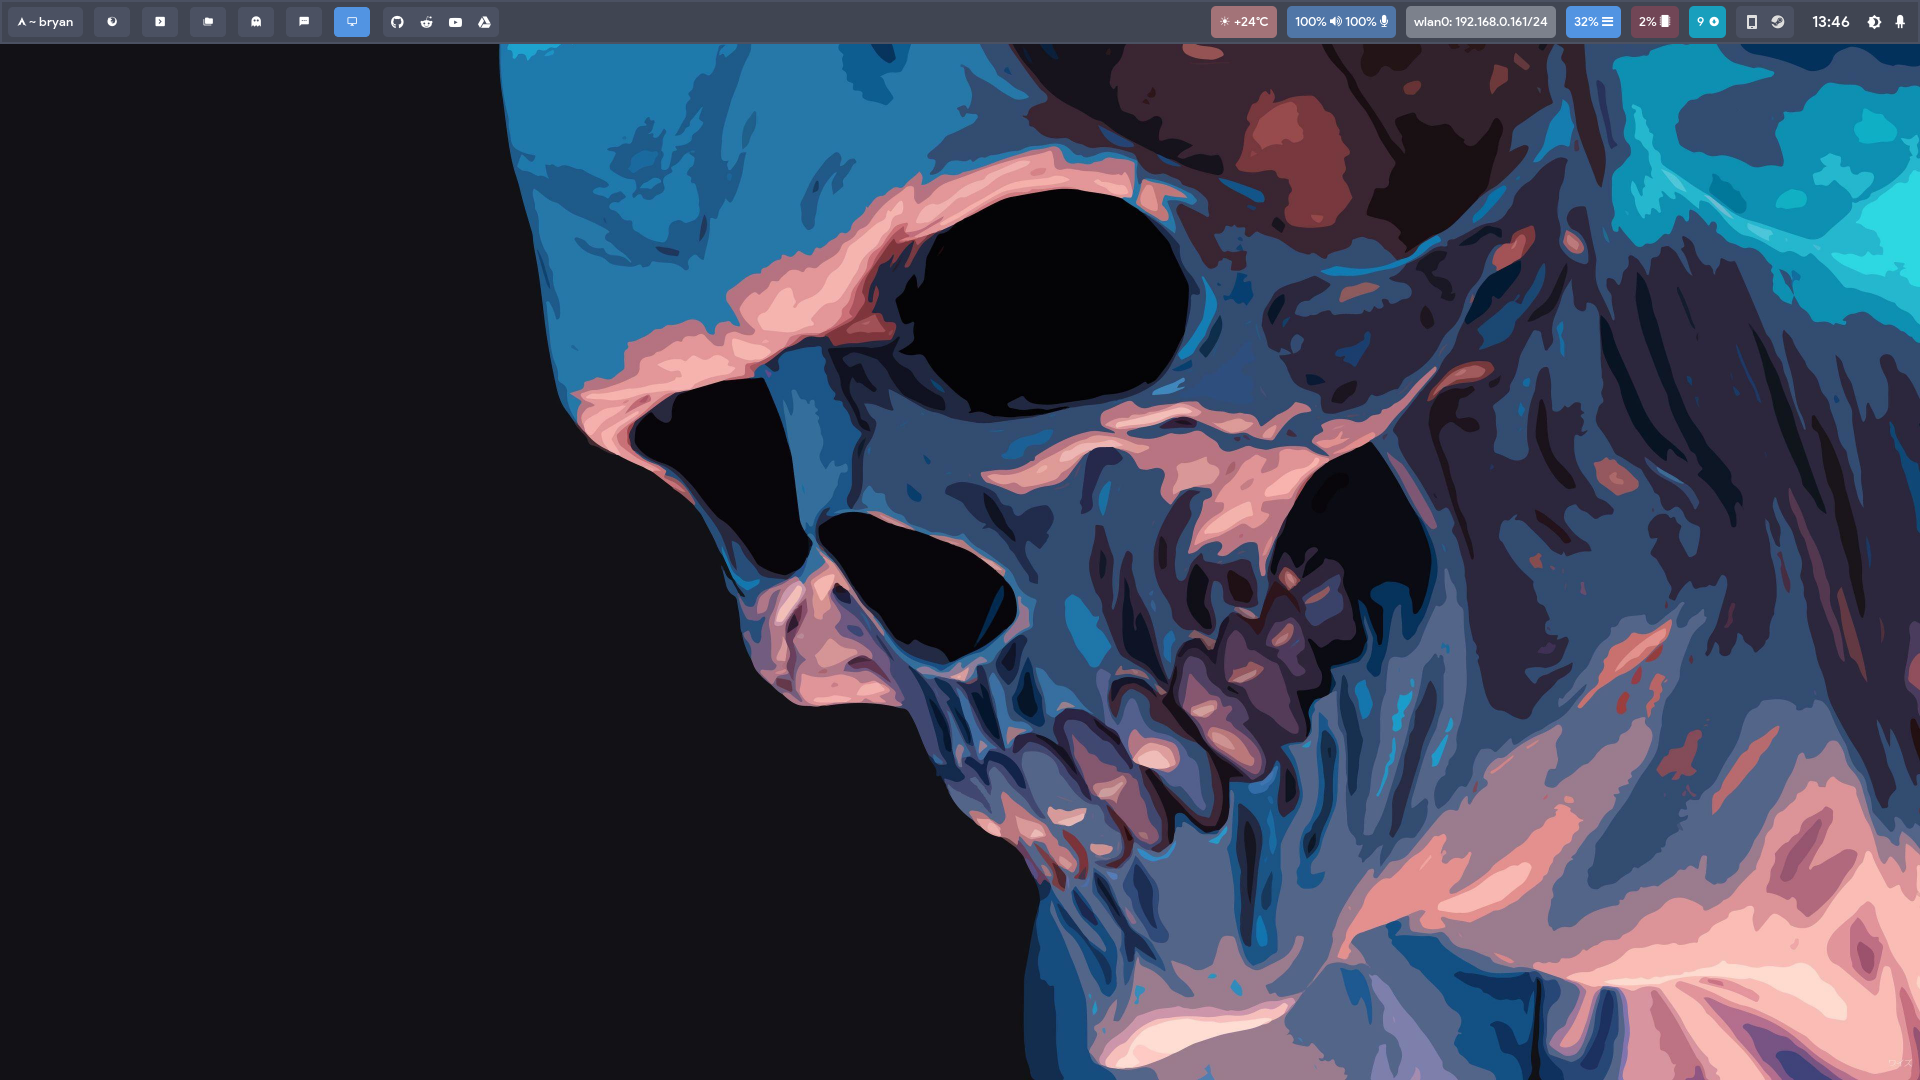
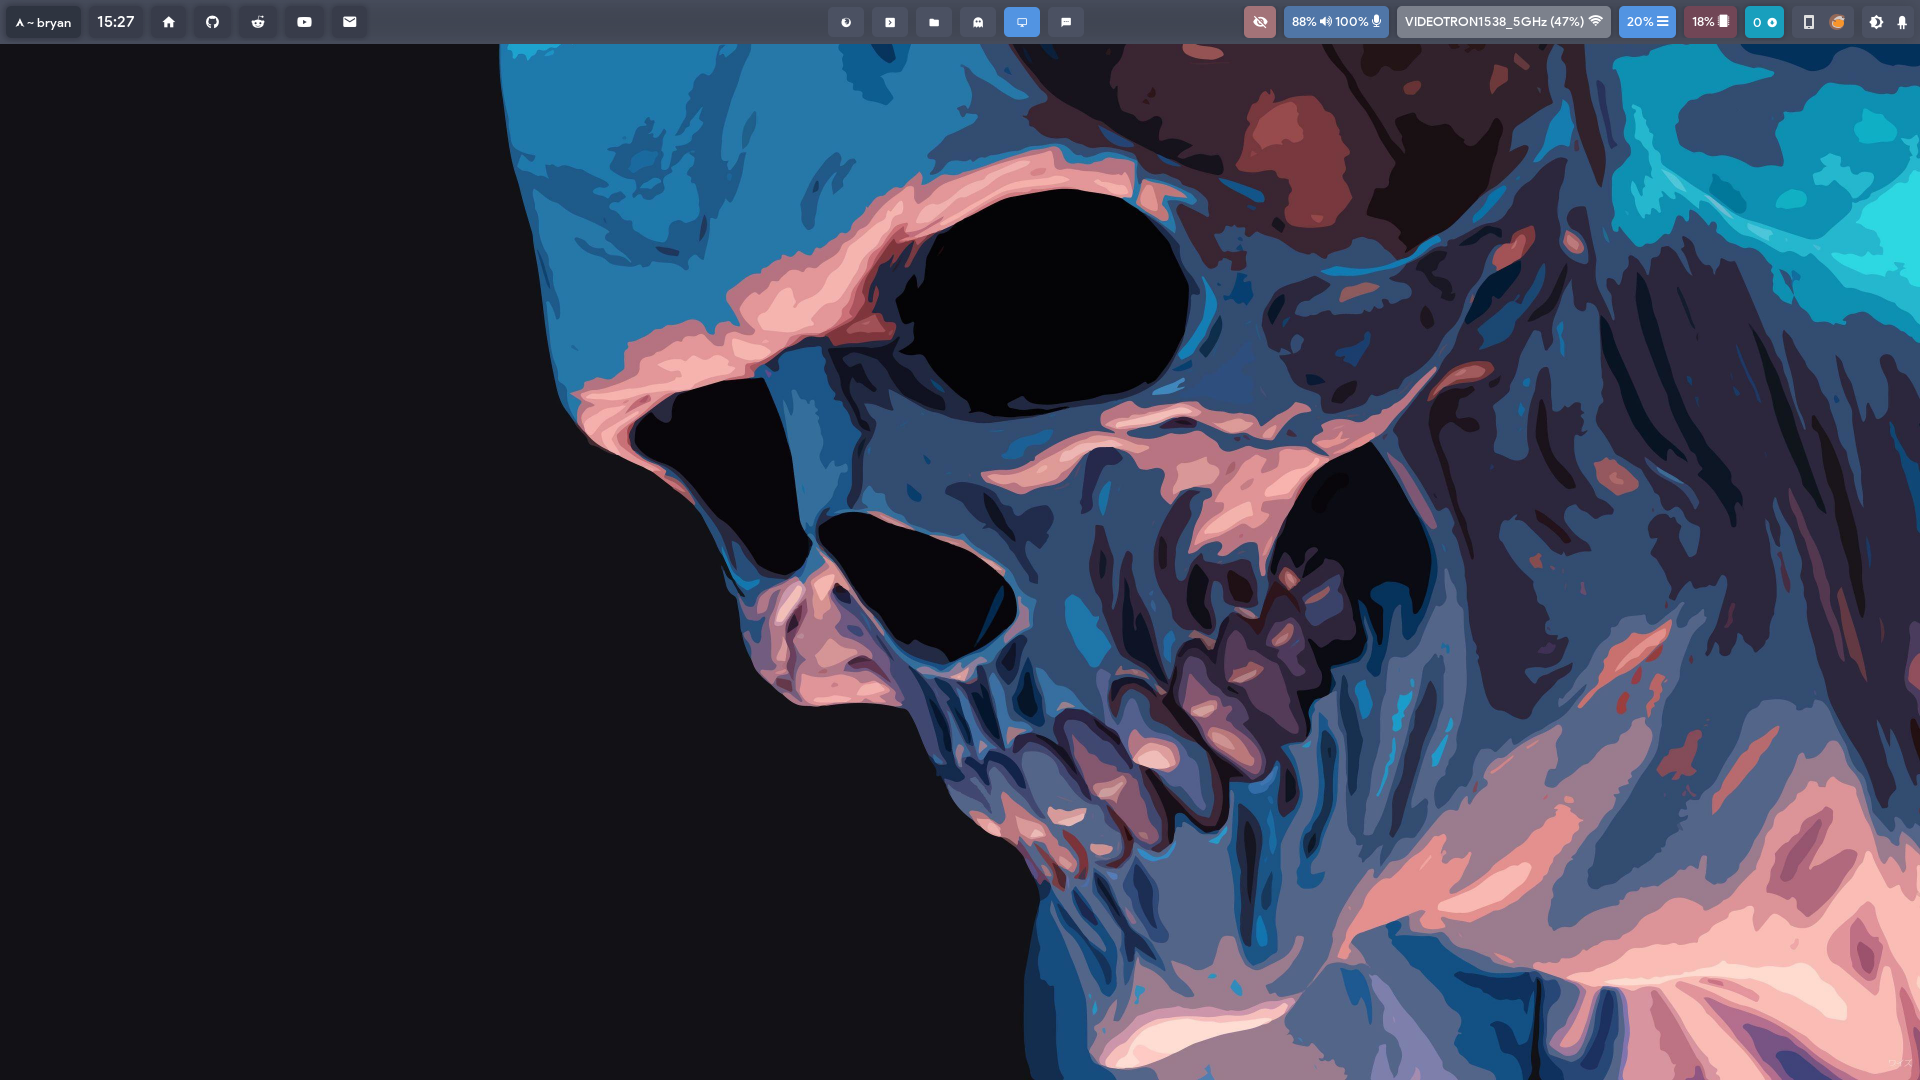
center

diff --git a/waybar/style.css b/waybar/style.css
@@ -2,6 +2,7 @@
 	margin: -2 0 -2 0;
     border: none;
     border-radius: 0;
+    padding: 5 1 5 1;
     /* `otf-font-awesome` is required to be installed for icons */
     font-family: Product Sans Medium,Google Sans Medium, San Francisco Text,Roboto, Helvetica, Arial, sans-serif;
     /* font-size: 13px; */
@@ -12,9 +13,10 @@ window#waybar {
     color: #ffffff;
     /* border-radius: 5px; */
     /* border:  2px solid #4b5162; */
-    border-bottom: 3px solid transparent;
+    /* border-bottom: 3 solid transparent; */
     transition-property: background-color;
     transition-duration: .5s;
+    box-shadow: 0px 0px 10 1 #4b5162 inset;
 }transition
 
 window#waybar.hidden {
@@ -40,21 +42,19 @@ window#waybar.solo {
 /* } */
 
 #workspaces button {
-	margin: 14 4 14 4;
 	/* font-size: 25px; */
 	padding: 0 8 0 8;
+	margin-right: 8px;
 	border-radius: 5px;
     background-color: #4b5162;
     color: #ffffff;
+    box-shadow: 0px 0px 3 1 #383c4a;
     /* border: 1px solid #404552; */
 }
 
 #window {
 	margin-left: 6px;
-	/* font-family:  San Francisco Text; */
-	/* font-weight: bold; */
-	padding-top: 1px;
-  /* font-size: 14px; */
+	margin-right: 6px;
 }
 
 /* https://github.com/Alexays/Waybar/wiki/FAQ#the-workspace-buttons-have-a-strange-hover-effect */
@@ -116,24 +116,30 @@ window#waybar.solo {
 /* Taskbar */
 
 #taskbar {
-    background-color:  #4b5162;
-	margin: 11 8 11 0;
-	padding: 3px;
+    /* background-color: #404552; */
+	/* padding: 3px; */
+	margin-right: 5;
 	border-radius: 5px;
 }
 
 #taskbar button {
 	/* font-size: 25px; */
 	/* padding: 2px 8px 2px 8px; */
-	padding: 3 1 3 7;
-	margin: 0;
+	padding: 0;
+	margin-left: 2;
+	/* margin: 0; */
 	border-radius: 5px;
-    background-color: #4b5162;
+    /* background-color: #404552; */
+    box-shadow: 0px 0px 3 1 #383c4a;
     color: #ffffff;
 }
 
-#taskbar button.focused {
-    background-color: #5294e2;
+#taskbar button.active {
+    background-color: #4b5162;
+}
+
+#taskbar button.minimized {
+    background-color: #7c818c;
 }
 
 #taskbar button:hover {
@@ -145,50 +151,57 @@ window#waybar.solo {
 /* Browser bookmarks */
 
 #custom-github {
-	background-color: #4b5162;
-	margin: 12 0 12 4;
+	background-color: #383c4a;
 	/* font-size: 15px; */
-	padding: 3 8 3 8;
-	border-radius: 5 0 0 5;
+	/* margin-right: 0; */
+	/* margin-left: 0; */
+	padding: 0 12 0 12;
+	border-radius: 5;
+    box-shadow: 0px 0px 3 1 #383c4a;
 }
 
 #custom-reddit {
-	background-color: #4b5162;
-	margin: 12 0 12 0;
+	background-color: #383c4a;
 	font-size: 14px;
-	padding: 3px 8px 3px 8px;
-	/* border-radius: 0 5 5 0; */
+	/* margin-left: 0; */
+	/* margin-right: 0; */
+	padding: 0 12 0 12;
+	border-radius: 5;
+    box-shadow: 0px 0px 3 1 #383c4a;
 }
 
 #custom-youtube {
-	background-color: #4b5162;
+	background-color: #383c4a;
 	/* font-size: 16px; */
-	margin: 12 0 12 0;
-	padding: 4px 8px 3px 8px;
-	/* border-radius: 0 5 5 0; */
+	/* margin-left: 0; */
+	/* margin-right: 0; */
+	padding: 0 12 0 12;
+	border-radius: 5;
+    box-shadow: 0px 0px 3 1 #383c4a;
 }
 
 #custom-mail {
-	background-color: #4b5162;
-	margin: 12 4 12 0;
+	background-color: #383c4a;
+	/* margin-left: 0; */
 	font-size: 18px;
-	padding: 4px 10px 3px 8px;
-	border-radius: 0 5 5 0;
+	padding: 0 12 0 12;
+	border-radius: 5;
+    box-shadow: 0px 0px 3 1 #383c4a;
 }
 
 #custom-newtab {
-	background-color: #4b5162;
+	background-color: #383c4a;
 	font-size: 18px;
-	margin: 12 4 12 4;
-    padding: 3px 12px 3px 12px;
+	padding: 0 12 0 12;
     border-radius: 5;
+    box-shadow: 0px 0px 3 1 #383c4a;
 }
 
 /* Tabs */
 
 #custom-exit {
 	background-color: #4b5162;
-	margin: 12 8 12 0;
+	margin-left: 0;
 	padding: 3px 8px 3px 8px;
 	border-radius: 0 5 5 0;
 }
@@ -196,7 +209,7 @@ window#waybar.solo {
 #custom-suspend {
 	background-color: #4b5162;
 	font-size: 20px;
-	margin: 12 0 12 4;
+	margin-right: 0;
 	padding: 3px 8px 3px 8px;
 	border-radius: 5px 0 0 5px;
 }
@@ -207,36 +220,36 @@ window#waybar.solo {
 }
 
 #custom-name {
-    background-color: #4b5162;
-	margin: 12 4 12 8;
+    background-color: #2e3440;
 	padding: 0px 10px 0px 10px;
 	border-radius: 5px;
+	/* margin-right: 8px; */
 	/* font-size: 18px; */
 	/* font-family:  San Francisco Text; */
-    border: 2px solid  #5D6271; 
+    /* border: 1px solid  #A4BCCA; */
+    box-shadow: 0px 0px 3 2 #383c4a;
+    /* box-shadow: 0px 0px 5 0 #4b5162 inset; */
 }
 
 #custom-pacman {
 	background-color: #189fbd;
-	margin: 12 0 12 8;
 	padding: 3px 8px 3px 8px;
 	border-radius: 5px;
+    box-shadow: 0px 0px 3 1 #383c4a;
 }
 
 #clock {
-    background-color: #4b5162;
-	margin: 12 4 12 8;
+    background-color: #383c4a;
 	padding: 3px 8px 3px 8px;
 	border-radius: 5px;
     font-size: 16px;
+    box-shadow: 0px 0px 3 1 #383c4a;
 }
 
 #battery {
     background-color: #CDCDCD;
-	margin: 12 0 12 8;
 	padding: 3px 8px 3px 8px;
 	border-radius: 5px;
-    
 }
 
 #battery.charging {
@@ -267,31 +280,30 @@ label:focus {
 
 #cpu {
     background-color: #714656;
-	margin: 12 0 12 8;
 	padding: 3px 8px 3px 8px;
 	border-radius: 5px;
-    
+    box-shadow: 0px 0px 3 1 #383c4a;
 }
 
 #memory {
     background-color: #5294e2;
-	margin: 12 0 12 8;
 	padding: 3px 8px 3px 8px;
 	border-radius: 5px;
+    box-shadow: 0px 0px 3 1 #383c4a;
 }
 
 #backlight {
     background-color: #CDCDCD;
-	margin: 12 0 12 8;
 	padding: 3px 8px 3px 8px;
 	border-radius: 5px;
+    box-shadow: 0px 0px 3 1 #383c4a;
 }
 
 #network {
     background-color: #7c818c;
-	margin: 12 0 12 8;
 	padding: 3px 8px 3px 8px;
 	border-radius: 5px;    
+    box-shadow: 0px 0px 3 1 #383c4a;
 }
 
 #network.disconnected {
@@ -300,17 +312,16 @@ label:focus {
 
 #pulseaudio {
     background-color: #5076a7;
-	margin: 12 0 12 8;
 	padding: 3px 8px 3px 8px;
-	border-radius: 5px;
-    
+	border-radius: 5px;    
+    box-shadow: 0px 0px 3 1 #383c4a;
 }
 
 #custom-weather {
     background-color: #A37378;
-	margin: 12 0 12 8;
 	padding: 3px 8px 3px 8px;
 	border-radius: 5px;
+    box-shadow: 0px 0px 3 1 #383c4a;
 }
 
 #pulseaudio.muted {
@@ -320,7 +331,6 @@ label:focus {
 
 #custom-media {
     background-color: #66cc99;
-	margin: 12 0 12 8;
 	padding: 3px 8px 3px 8px;
 	border-radius: 5px;
     
@@ -328,7 +338,6 @@ label:focus {
 
 #custom-media.custom-spotify {
     background-color: #66cc99;
-	margin: 12 0 12 8;
 	padding: 3px 8px 3px 8px;
 	border-radius: 5px;
     
@@ -336,7 +345,6 @@ label:focus {
 
 #custom-media.custom-vlc {
     background-color: #ffa000;
-	margin: 12 0 12 8;
 	padding: 3px 8px 3px 8px;
 	border-radius: 5px;    
 }
@@ -344,10 +352,10 @@ label:focus {
 
 #temperature {
     background-color: #CDCDCD;
-	margin: 12 0 12 8;
+	margin: 0 0 0 8;
 	padding: 3px 8px 3px 8px;
-	border-radius: 5px;
-   
+	border-radius: 5px;   
+    box-shadow: 0px 0px 3 1 #383c4a;
 }
 
 #temperature.critical {
@@ -356,25 +364,23 @@ label:focus {
 
 #tray {
     background-color: #4b5162;
-	margin: 12 0 12 8;
 	padding: 3px 8px 3px 8px;
 	border-radius: 5px;
 }
 
 #disk {
     background-color: #9a3f45;
-	margin: 12 0 12 8;
 	padding: 3px 8px 3px 8px;
 	border-radius: 5px;
-   
+    box-shadow: 0px 0px 3 1 #383c4a;
 }
 
 #idle_inhibitor {
     background-color: #A37378;
-	margin: 12 0 12 8;
 	padding: 3px 10px 3px 10px;
 	border-radius: 5px;
 	font-size: 20px;
+    box-shadow: 0px 0px 3 1 #383c4a;
 }
 
 #idle_inhibitor.activated {
@@ -384,10 +390,10 @@ label:focus {
 
 #mpd {
     background-color: #66cc99;
-	margin: 12 0 12 8;
 	padding: 3px 8px 3px 8px;
 	border-radius: 5px;
     border: 1px solid #ffffff;
+    box-shadow: 0px 0px 3 1 #383c4a;
 }
 
 
